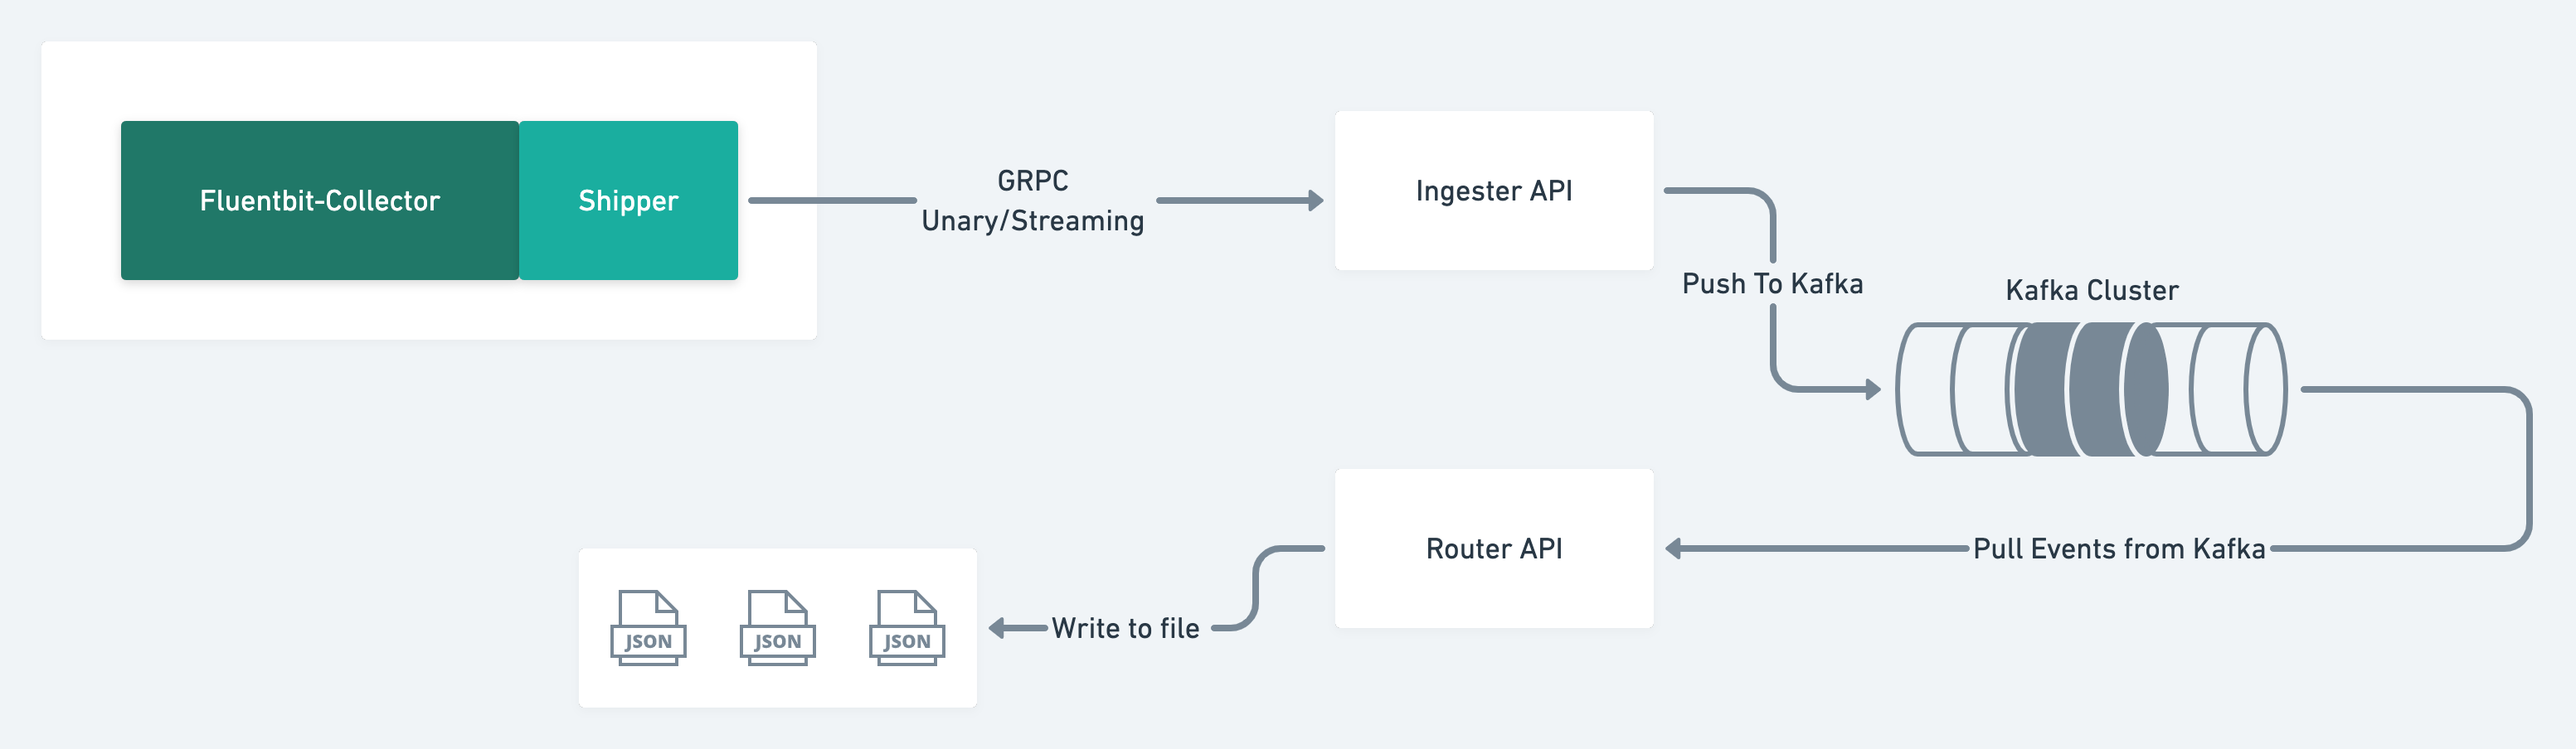
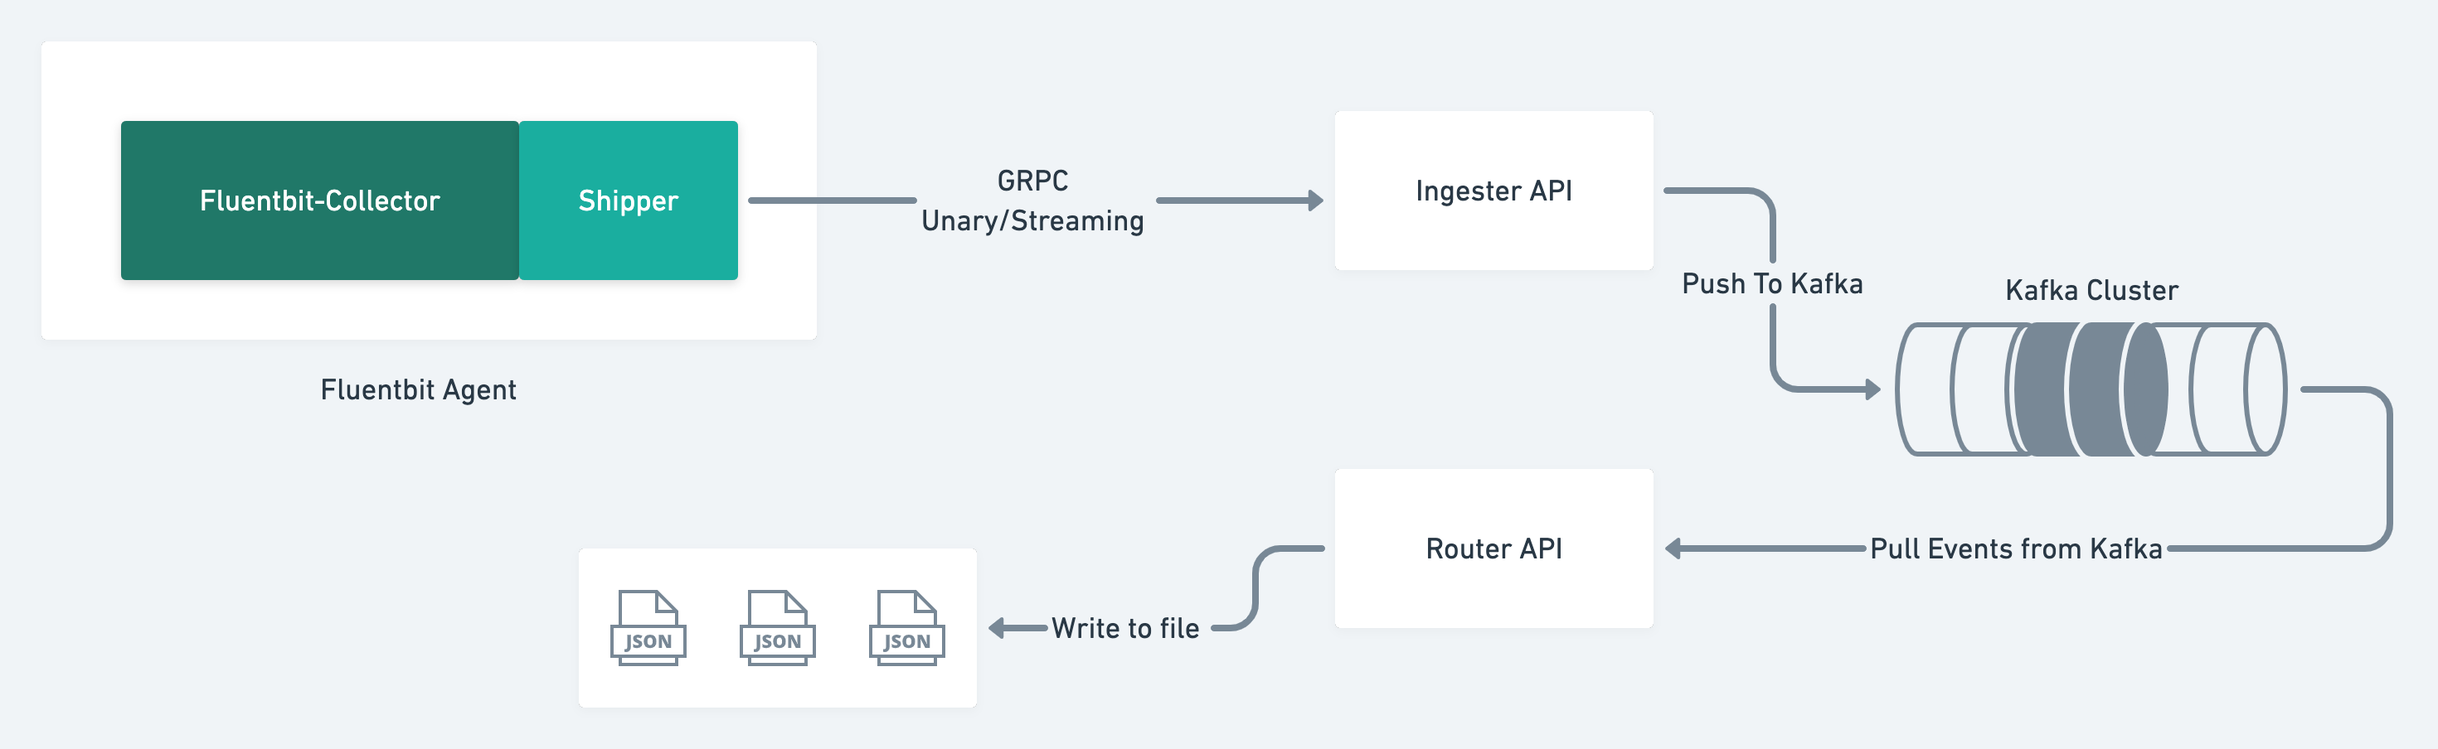
Housekeeping

diff --git a/ingester/main.go b/ingester/main.go
@@ -35,8 +35,8 @@ var serveCmd = &cobra.Command{
 
 var authCmd = &cobra.Command{
 	Use:   "access-token",
-	Short: "Generate a JWT Access Token for Collector Agent",
-	Long:  `Generate a JWT Access Token for Collector Agent`,
+	Short: "Generate a JWT Access Token for FB-Agent",
+	Long:  `Generate a JWT Access Token for FB-Agent`,
 	Run: func(cmd *cobra.Command, args []string) {
 		auth := jwtauth.NewJWTAuth()
 		token, err := auth.Generate(&jwtauth.Claims{}, time.Duration(expiry*int64(time.Second)))
@@ -51,7 +51,7 @@ func init() {
 	RootCmd.AddCommand(serveCmd)
 	RootCmd.AddCommand(authCmd)
 
-	serveCmd.PersistentFlags().Bool("print-events", false, "Print events as received from Fluentbit Collector")
+	serveCmd.PersistentFlags().Bool("print-events", false, "Print events as received from Fluentbit-Agent")
 	authCmd.PersistentFlags().Int64VarP(&expiry, "expiry", "", 600, "Expiry duration of token in seconds")
 }
 

diff --git a/router/main.go b/router/main.go
@@ -32,7 +32,7 @@ var serveCmd = &cobra.Command{
 func init() {
 	RootCmd.AddCommand(serveCmd)
 
-	serveCmd.PersistentFlags().Bool("decrypt-events", false, "Decrypt events received from kafka")
+	serveCmd.PersistentFlags().Bool("decrypt-events", false, "Decrypt events received from kafka - Events written to file also will be decrypted")
 	serveCmd.PersistentFlags().Bool("print-events", false, "Print events as received from Kafka")
 }
 
